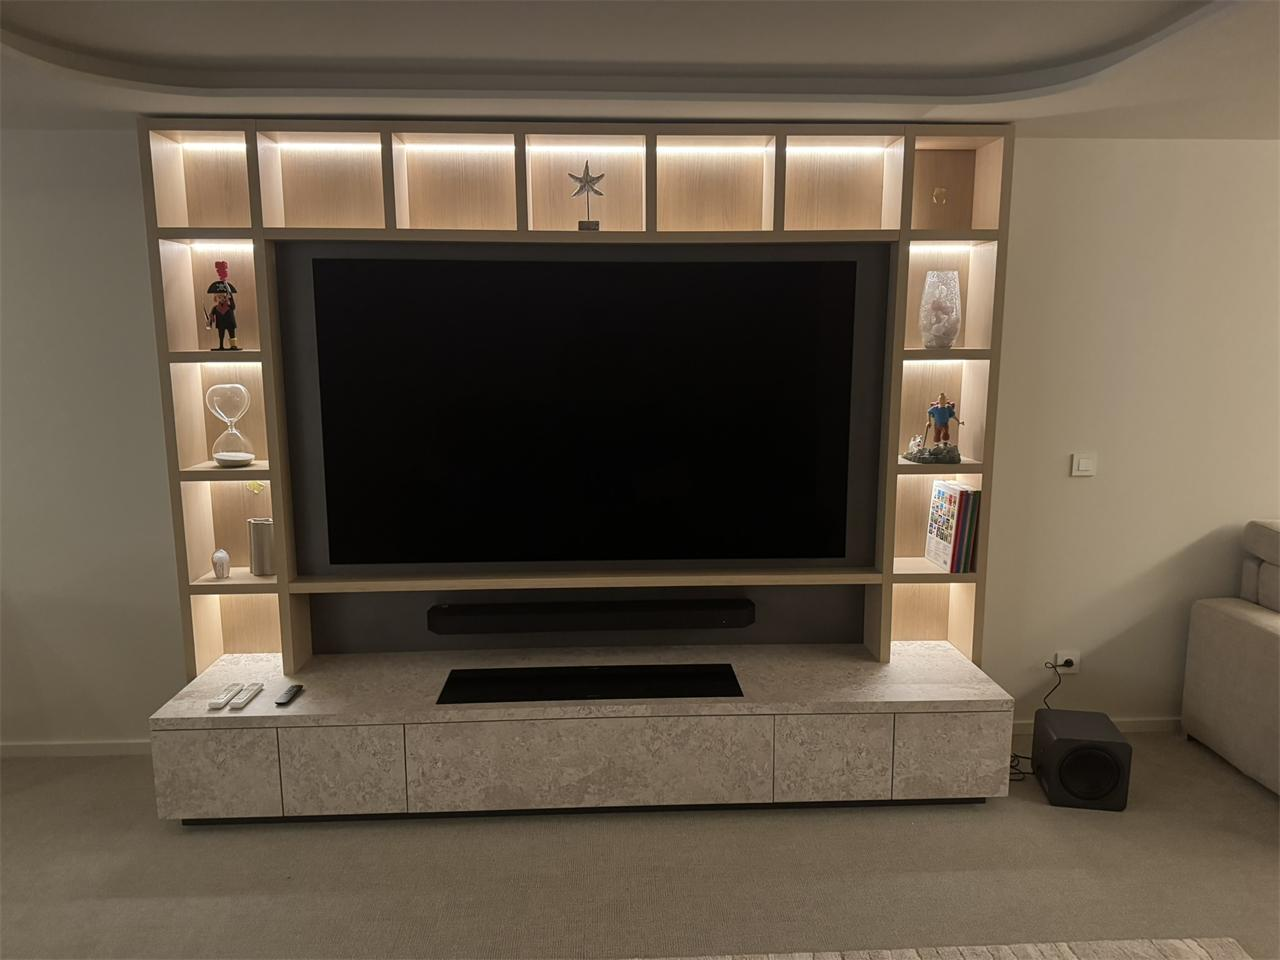
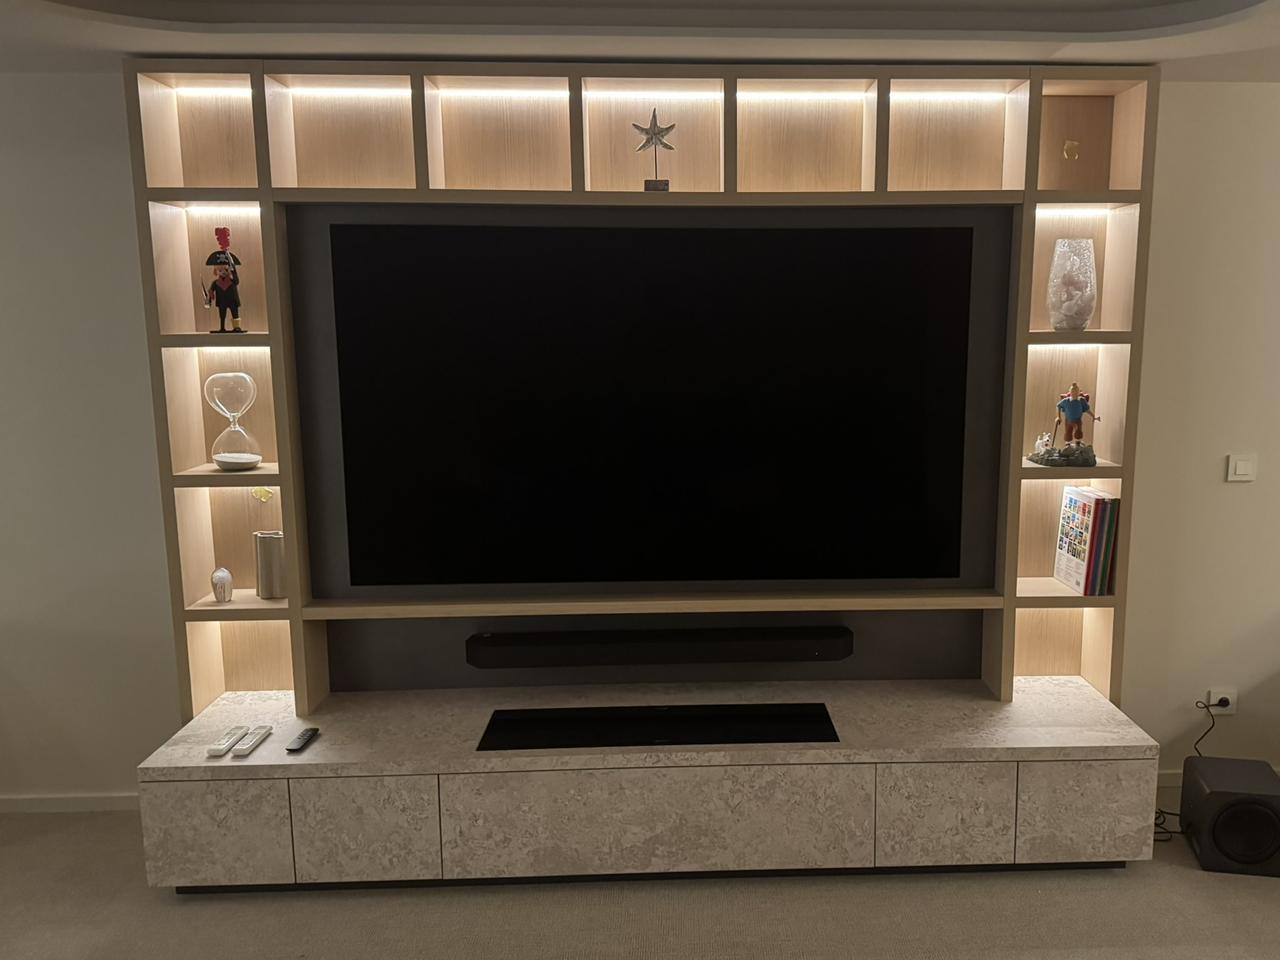
Réalisations : mur TV recentré, mention « Réalisation phare » retirée

diff --git a/index.html b/index.html
@@ -271,7 +271,7 @@
                    sizes="(max-width: 480px) 100vw, (max-width: 900px) 100vw, 50vw"
                    width="640" height="480" loading="lazy" decoding="async"
                    alt="Meuble TV sur mesure avec niches rétroéclairées en LED, barre de son et caisson de basses">
-              <span class="gallery-cap"><em class="gallery-tag">Réalisation phare</em><strong>Mur TV rétroéclairé</strong><span>Niches LED, barre de son, caisson de basses, zéro câble visible</span></span>
+              <span class="gallery-cap"><strong>Mur TV rétroéclairé</strong><span>Niches LED, barre de son, caisson de basses, zéro câble visible</span></span>
             </button>
           </li>
           <li class="gallery-item tall" data-cat="reseau">
